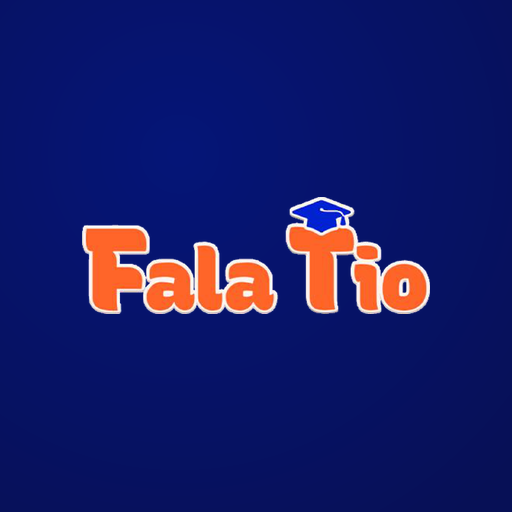
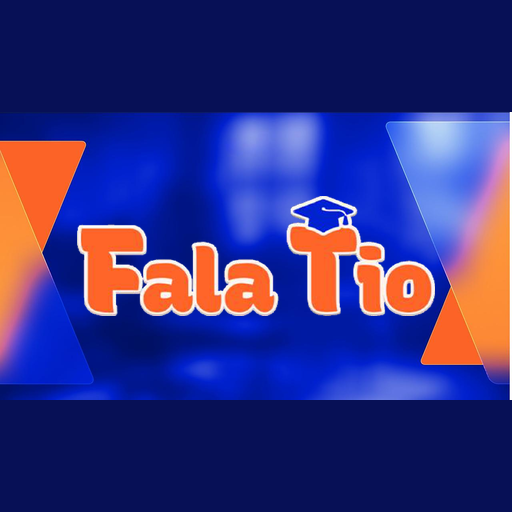
Ícone do app com a arte e tela de carregamento (splash)
- Ícones do PWA (192/512/maskable + apple-touch) regenerados com a arte de fundo
  (laços laranja) + logo Fala Tio.
- Splash de carregamento: fundo com a arte + logo + spinner, exibido enquanto o
  app inicializa e some com fade quando fica pronto (com fallback de segurança).
- Service worker: cache v3 para atualizar os ícones.

Claude-Session: https://claude.ai/code/session_01AETX4B2938bMHYooAn1Eii

diff --git a/css/styles.css b/css/styles.css
@@ -401,6 +401,26 @@ tbody tr:last-child td { border-bottom: none; }
 .modal-actions { display: flex; flex-direction: column; gap: 9px; margin-top: 18px; }
 .modal-actions .btn { justify-content: center; padding: 12px; }
 
+/* Splash / carregamento */
+#splash {
+  position: fixed; inset: 0; z-index: 500; display: flex; flex-direction: column;
+  align-items: center; justify-content: center; gap: 28px;
+  background: #071056 url('../assets/login-bg.jpg') center center / cover no-repeat;
+  transition: opacity .45s ease;
+}
+#splash.hide { opacity: 0; pointer-events: none; }
+.splash-logo {
+  width: 250px; max-width: 62%; height: auto;
+  filter: drop-shadow(0 4px 16px rgba(0, 0, 0, 0.4));
+  animation: splashPulse 1.5s ease-in-out infinite;
+}
+.splash-spinner {
+  width: 40px; height: 40px; border: 4px solid rgba(255, 255, 255, 0.28);
+  border-top-color: #FF6428; border-radius: 50%; animation: spin .8s linear infinite;
+}
+@keyframes spin { to { transform: rotate(360deg); } }
+@keyframes splashPulse { 0%, 100% { transform: scale(1); } 50% { transform: scale(1.045); } }
+
 /* Login screen */
 .login-screen {
   position: fixed; inset: 0; z-index: 300; display: none;
@@ -505,8 +525,8 @@ body.is-dragging, body.is-dragging * { cursor: grabbing !important; }
 
 /* ===== Mobile ===== */
 @media (max-width: 680px) {
-  /* No login mobile: zoom na arte (preenche a tela) mostrando o laço laranja, não o meio azul */
-  .login-screen { background-size: cover; background-position: 12% center; }
+  /* No login/splash mobile: zoom na arte (preenche a tela) mostrando o laço laranja, não o meio azul */
+  .login-screen, #splash { background-size: cover; background-position: 12% center; }
   .header-inner { padding: 14px 14px 0; }
   .header-top { gap: 10px; }
   .brand-logo-img { height: 30px; }

diff --git a/js/app.js b/js/app.js
@@ -1063,17 +1063,30 @@ async function abrirHistorico() {
 }
 
 /* ---------- Boot ---------- */
+function hideSplash() {
+  const s = document.getElementById('splash');
+  if (s && !s.classList.contains('hide')) {
+    s.classList.add('hide');
+    setTimeout(() => { if (s.parentNode) s.remove(); }, 550);
+  }
+}
 async function init() {
-  initTheme();
-  bindEvents();
-  if (await Cloud.init()) {
-    bindCloudEvents();
-    if (Cloud.user) { await enterCloud(); }
-    else { showLogin(); }
-  } else {
-    // Modo local (sem nuvem configurada): comportamento original
-    loadData();
-    renderAll();
+  // Rede é a garantia de saída caso algo trave no carregamento
+  setTimeout(hideSplash, 7000);
+  try {
+    initTheme();
+    bindEvents();
+    if (await Cloud.init()) {
+      bindCloudEvents();
+      if (Cloud.user) { await enterCloud(); }
+      else { showLogin(); }
+    } else {
+      // Modo local (sem nuvem configurada): comportamento original
+      loadData();
+      renderAll();
+    }
+  } finally {
+    hideSplash();
   }
 }
 document.addEventListener('DOMContentLoaded', init);

diff --git a/sw.js b/sw.js
@@ -1,7 +1,7 @@
 /* Service Worker — Fala Tio · Prospecção (PWA)
    Estratégia: network-first (sempre busca a versão mais nova online;
    usa o cache só como reserva quando estiver offline). */
-const CACHE = 'falatio-v2';
+const CACHE = 'falatio-v3';
 const SHELL = [
   './', './index.html', './css/styles.css',
   './js/config.js', './js/cloud.js', './js/data.js', './js/app.js',

diff --git a/index.html b/index.html
@@ -20,6 +20,12 @@
   <link rel="stylesheet" href="css/styles.css" />
 </head>
 <body>
+  <!-- Tela de carregamento (splash) -->
+  <div id="splash">
+    <img src="assets/falatio-logo.png" alt="Fala Tio" class="splash-logo" />
+    <div class="splash-spinner" aria-hidden="true"></div>
+  </div>
+
   <header>
     <div class="header-inner">
       <div class="header-top">
